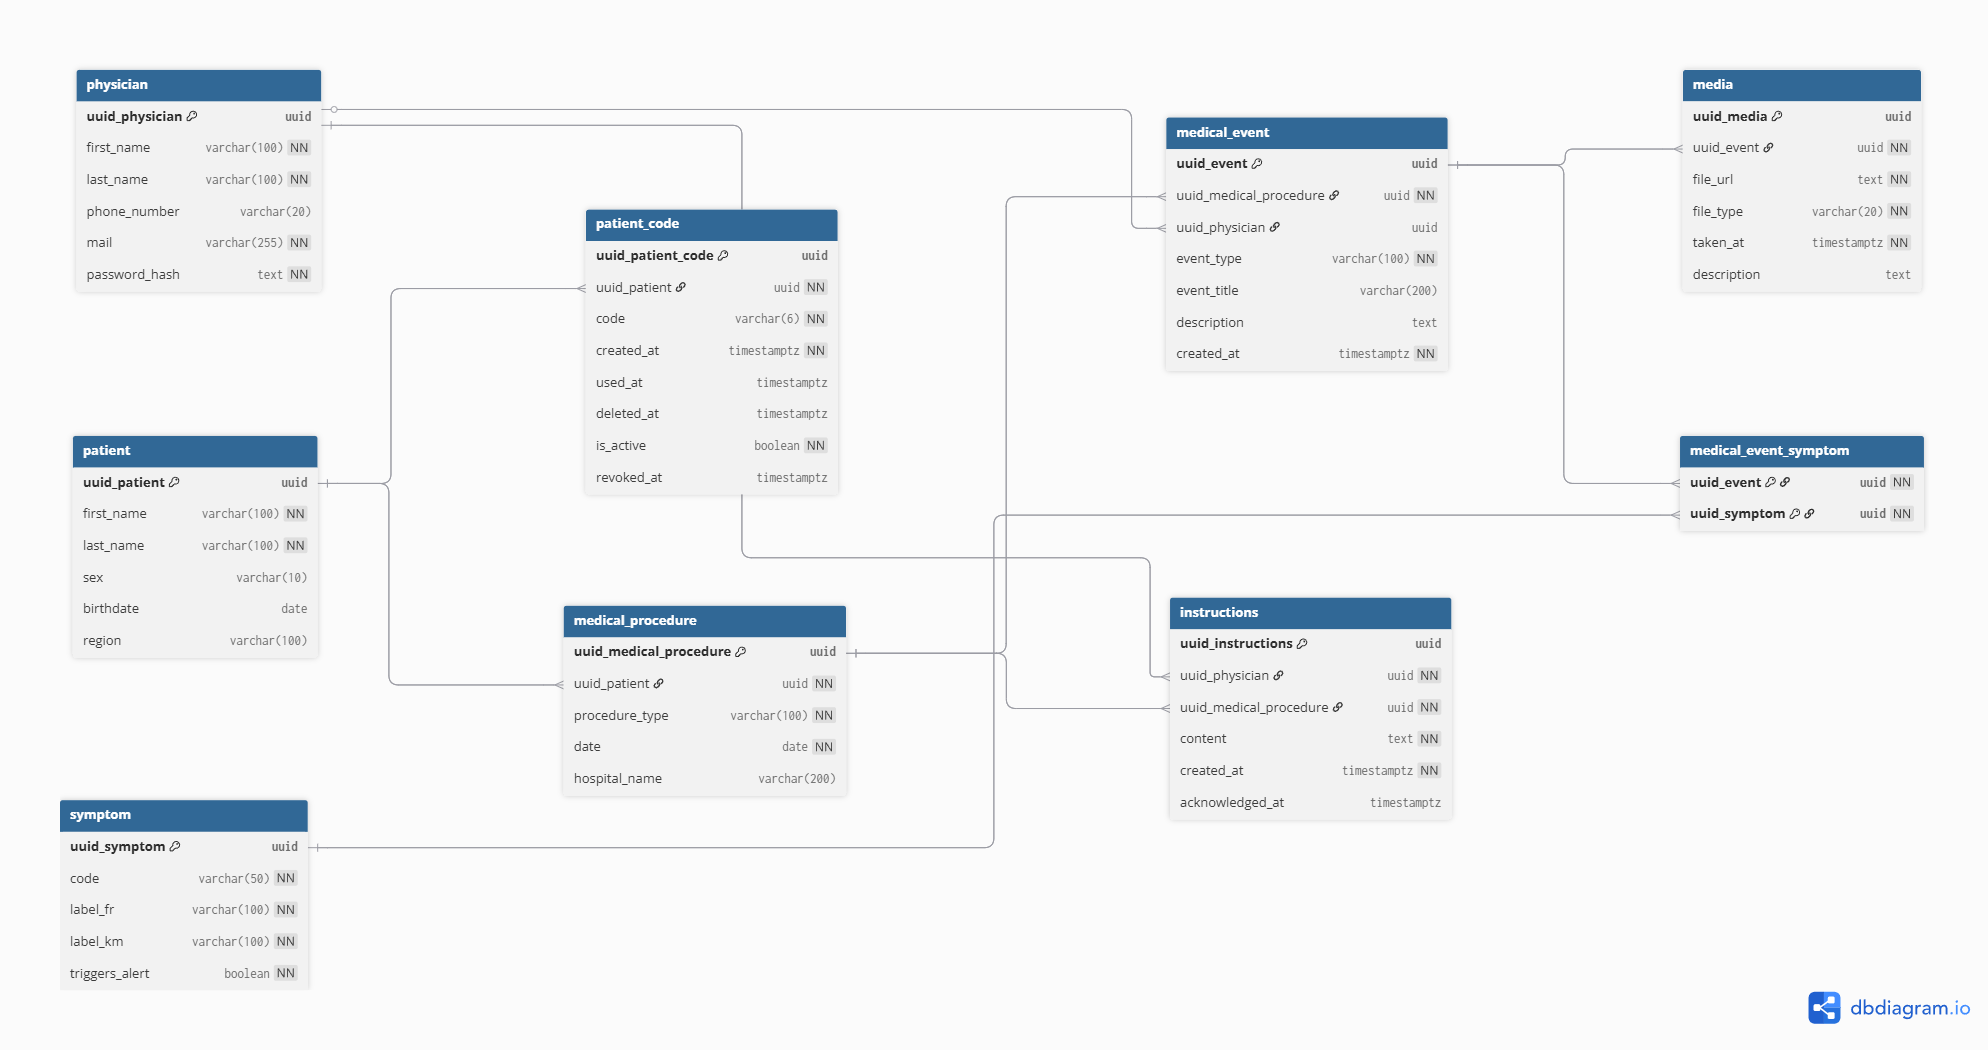
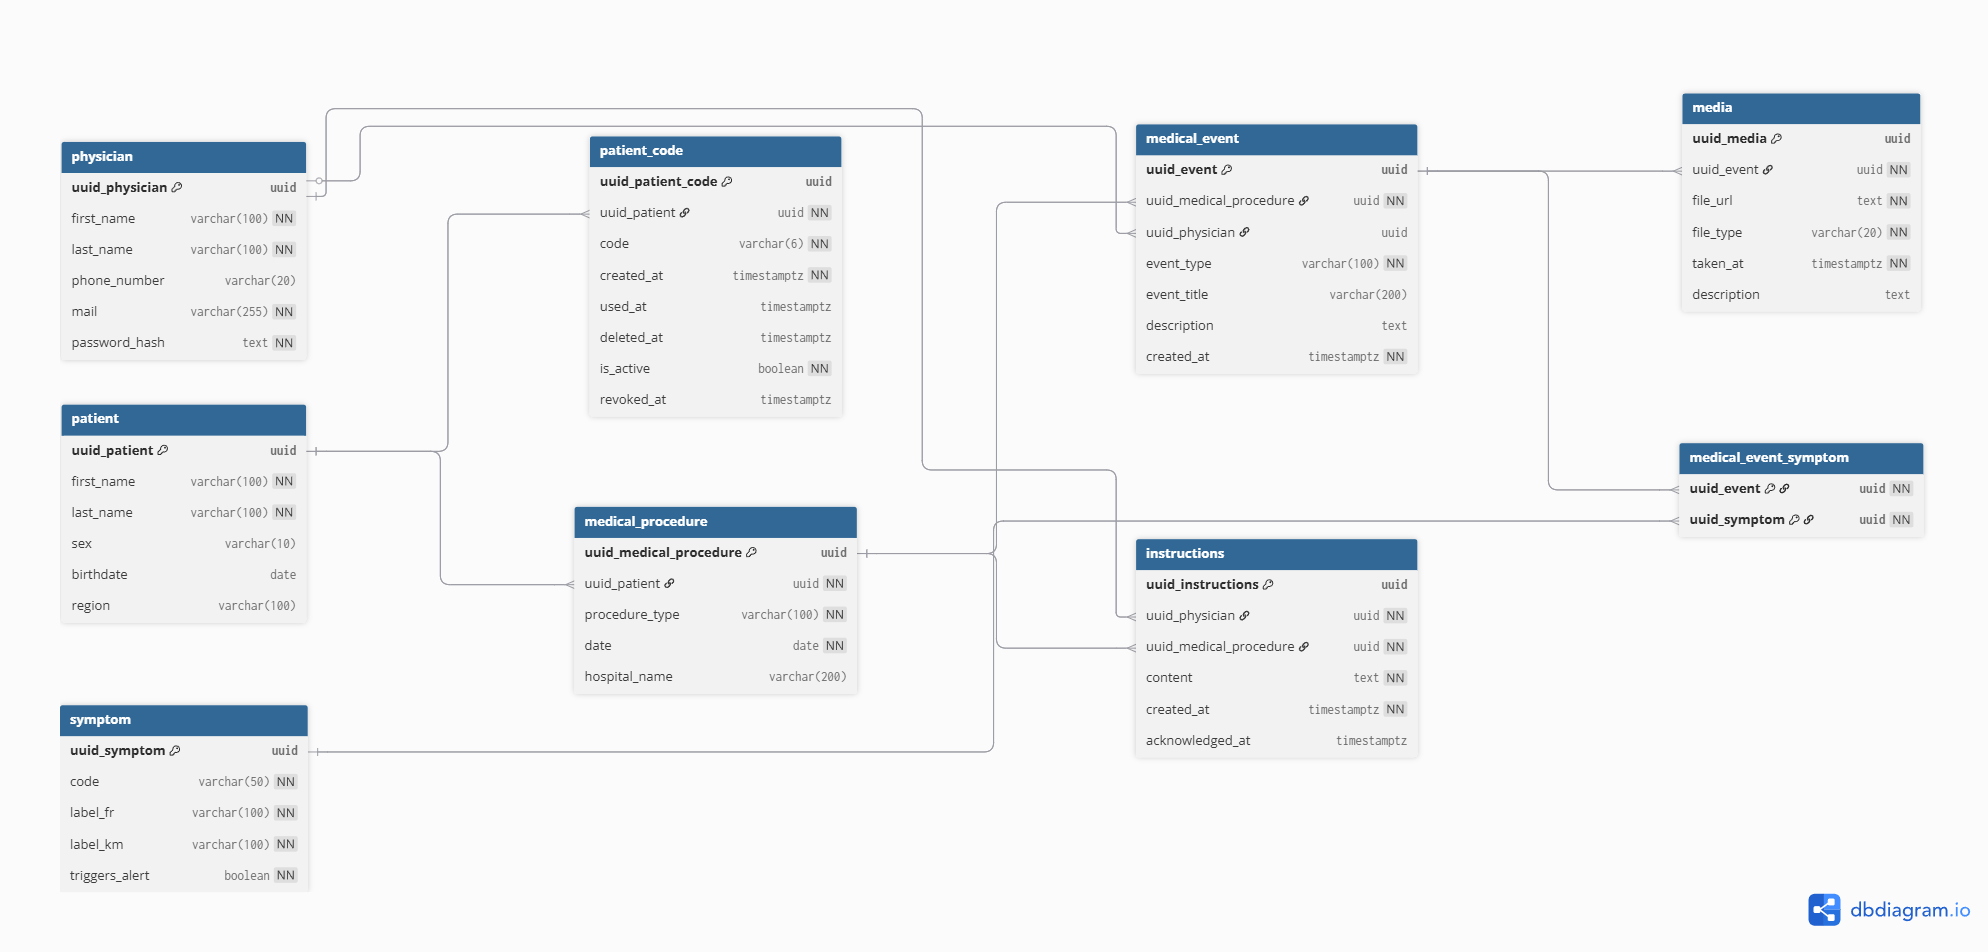
docs(schema): décisions de schéma et MLD mis à jour
- architecture.md : section décisions de schéma (timestamptz, lower(mail),
  lower(code), boolean is_active, index partiels critiques documentés)
- mld.png : diagramme régénéré avec tous les index (uuid_physician,
  created_at, unread_idx, uuid_symptom, fonctionnels lower)

diff --git a/docs/architecture.md b/docs/architecture.md
@@ -188,6 +188,25 @@ feature/
 
 Toutes les migrations sont **additives** : on n'ajoute que des colonnes nullable, jamais de suppression ni de renommage. Raison : les appareils mobiles peuvent être désynchronisés depuis plusieurs semaines — un schéma incompatible bloquerait leur synchronisation.
 
+### Décisions de schéma
+
+**Timestamps — `timestamptz` obligatoire**
+Toutes les colonnes de date/heure utilisent `timestamp with time zone`. Les patients sont au Cambodge (UTC+7), les médecins en France (UTC+1/+2) — un `timestamp` sans timezone rendrait les horodatages ambigus. PostgreSQL stocke en UTC et convertit automatiquement.
+
+**Emails — index fonctionnel `lower(mail)`**
+`physician.mail` utilise un index unique fonctionnel sur `lower(mail)` plutôt qu'un unique inline. `Doctor@hopital.fr` et `doctor@hopital.fr` seraient deux comptes distincts avec un unique classique.
+
+**Codes symptômes — index fonctionnel `lower(code)`**
+Même principe pour `symptom.code` — cohérence avec `physician.mail`.
+
+**`is_active` — `boolean` natif PostgreSQL**
+`patient_code.is_active` utilise le type `boolean` (`true/false`) et non `integer` (`1/0`) — plus idiomatique, interdit les valeurs invalides.
+
+**Index partiels critiques**
+- `patient_code_code_active_unique` : `WHERE deleted_at IS NULL AND revoked_at IS NULL` — les codes consommés restent dans l'index pour empêcher toute réattribution
+- `patient_code_patient_active_unique` : `WHERE is_active = true AND used_at IS NULL AND ...` — un seul code actif par patient
+- `instructions_unread_idx` : `WHERE acknowledged_at IS NULL` — optimise le polling "instructions non lues" (requête critique pour les alertes)
+
 ---
 
 ## Sécurité
